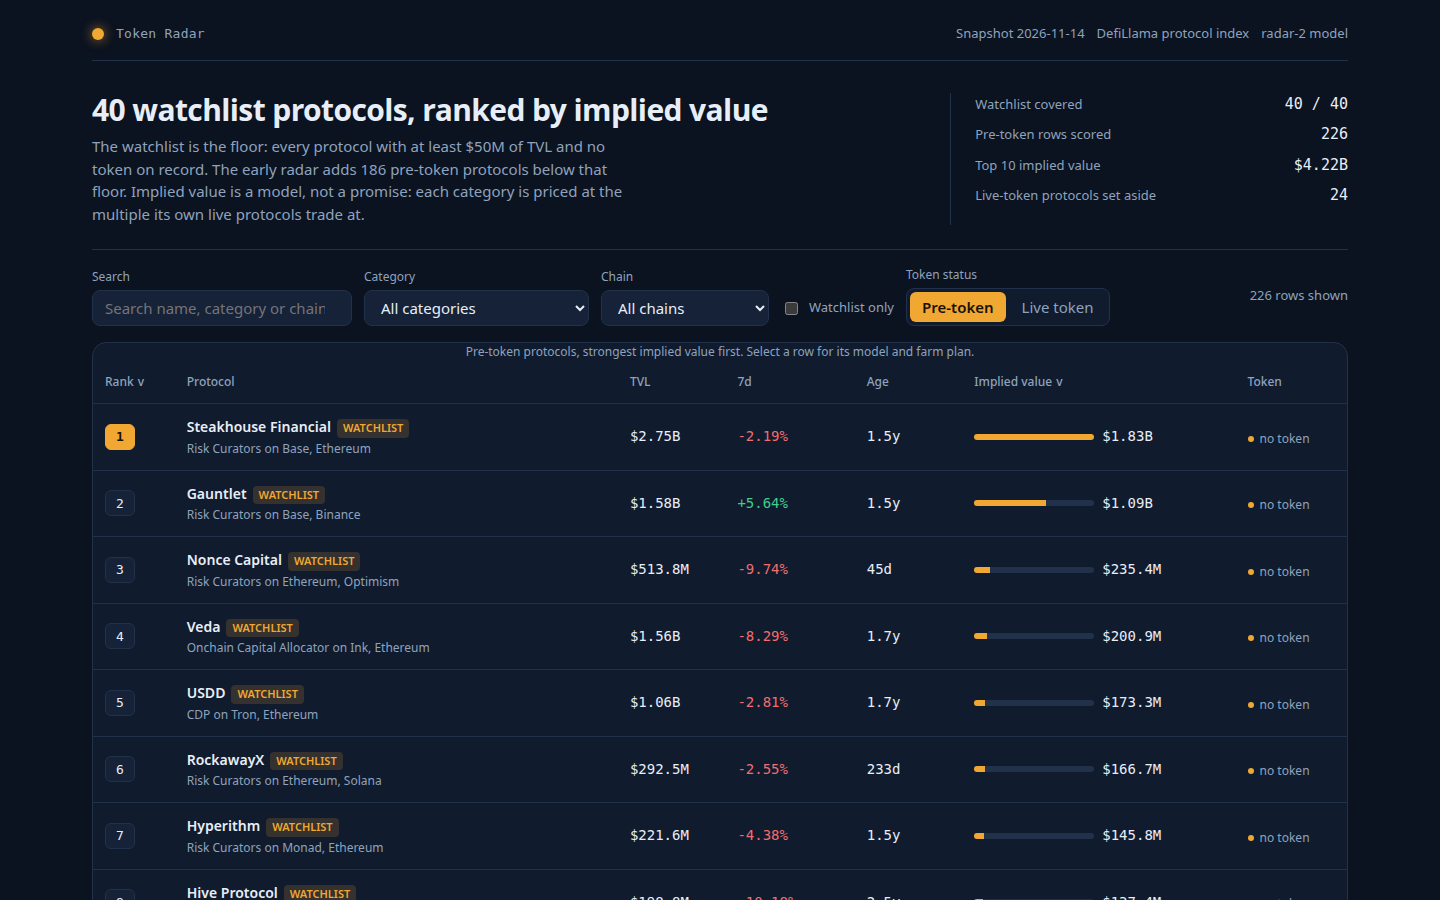
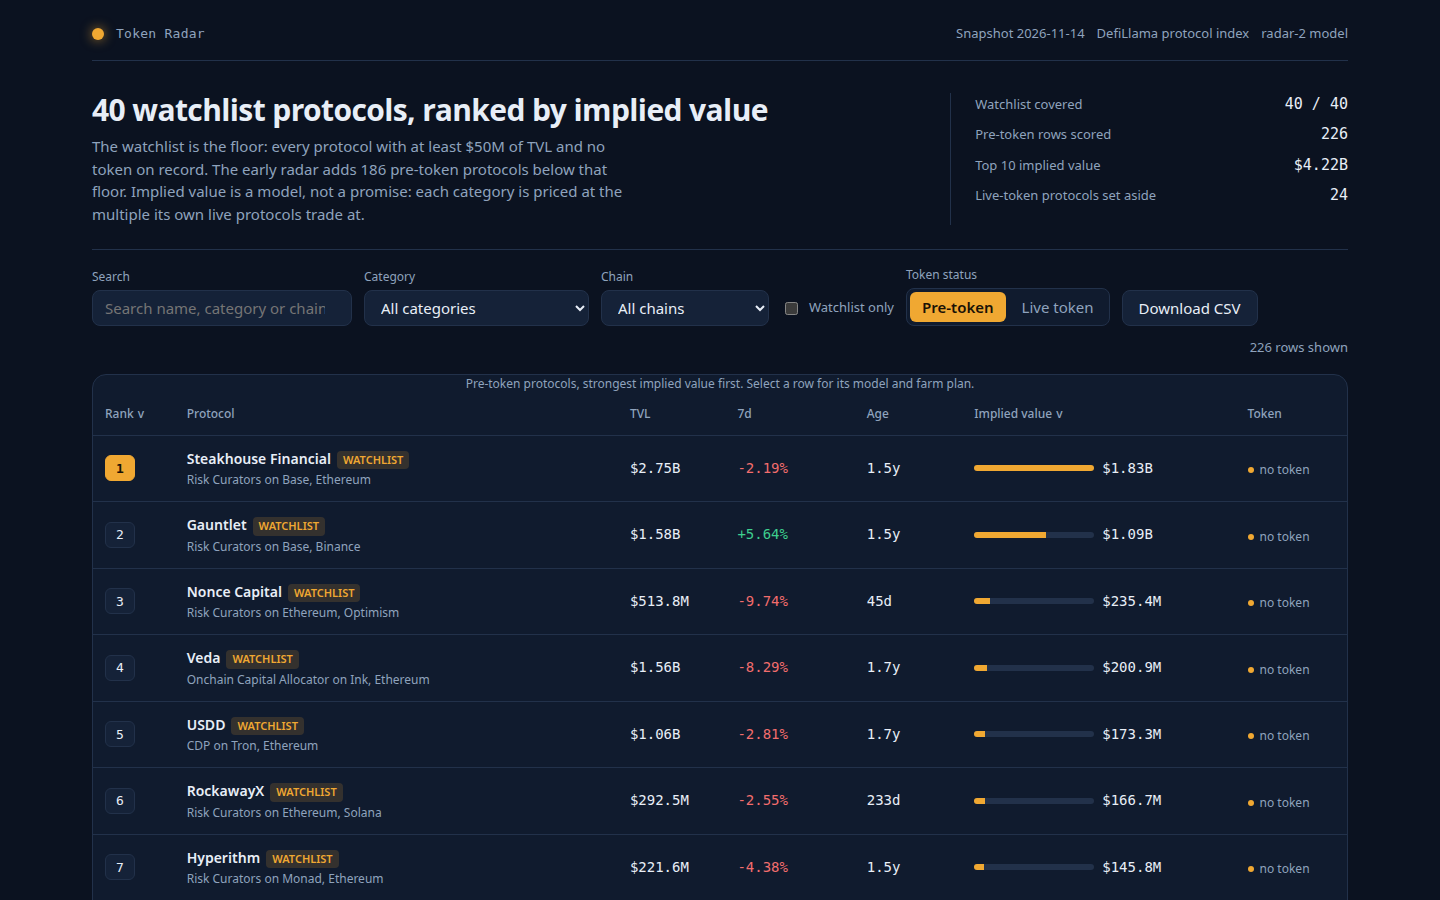
Add category leaderboard, growth leaders and CSV export
Category stats (per-category protocols, TVL, implied value, median
multiple, best row, share) and top-10 concentration share, computed in
lib/model.ts and rendered as a dashboard panel; fastest-growing
pre-token rows panel; Download CSV exports the rows on screen.

diff --git a/dashboard/app.js b/dashboard/app.js
@@ -180,6 +180,25 @@
     return total;
   }
 
+  function downloadCsv() {
+    var list = state.tab === 'pre-token' ? sortedRows(rows()) : DATA.live;
+    var head = 'rank,slug,name,category,chains,tvl_usd,change_7d,age_days,implied_value_usd\n';
+    var lines = list.map(function (r) {
+      var cells = state.tab === 'pre-token'
+        ? [r.rank, r.slug, r.name, r.category || '', (r.chains || []).join('|'), r.tvl_usd, r.change_7d === null ? '' : r.change_7d, r.age_days === null ? '' : r.age_days, r.implied_value_usd]
+        : ['live', r.slug, r.name, r.category || '', (r.chains || []).join('|'), r.tvl_usd, r.change_7d === null ? '' : r.change_7d, '', r.mcap_usd === null ? '' : r.mcap_usd];
+      return cells.map(function (v) { var s = String(v); return s.indexOf(',') >= 0 || s.indexOf('"') >= 0 ? '"' + s.replace(/"/g, '""') + '"' : s; }).join(',');
+    });
+    var blob = new Blob([head + lines.join('\n') + '\n'], { type: 'text/csv' });
+    var a = document.createElement('a');
+    a.href = URL.createObjectURL(blob);
+    a.download = 'token-radar-board.csv';
+    document.body.appendChild(a);
+    a.click();
+    URL.revokeObjectURL(a.href);
+    a.remove();
+  }
+
   function header() {
     return el('header', { class: 'top' },
       el('div', { class: 'brand' }, el('span', { class: 'mark' }), el('span', { class: 'brand-name', text: 'Token Radar' })),
@@ -231,6 +250,7 @@
       el('div', { class: 'field' }, el('label', { for: 'chain', text: 'Chain' }), chainSel),
       el('label', { class: 'check', for: 'wl' }, wl, 'Watchlist only'),
       el('div', { class: 'field' }, el('span', { class: 'sub', text: 'Token status' }), el('div', { class: 'tabs' }, pre, live)),
+      el('button', { class: 'button', type: 'button', text: 'Download CSV', onclick: function () { downloadCsv(); } }),
       el('span', { class: 'count', text: state.tab === 'pre-token' ? rows().length + ' rows shown' + (state.sandbox.active ? ' (what-if model)' : '') : DATA.live.length + ' live-token protocols' })
     );
   }
@@ -372,6 +392,82 @@
     );
   }
 
+  function categoryPanel() {
+    var cats = DATA.categories || [];
+    if (cats.length === 0) return el('section', { class: 'panel cat-panel' }, el('p', { class: 'sub', text: 'No category breakdown in this snapshot.' }));
+    var body = el('tbody');
+    cats.forEach(function (c, i) {
+      body.appendChild(el('tr', null,
+        el('td', { class: 'num', text: String(i + 1) }),
+        el('td', null, el('b', { text: c.category })),
+        el('td', { class: 'num', text: String(c.protocols) }),
+        el('td', { class: 'num', text: fmtUsd(c.total_tvl_usd) }),
+        el('td', { class: 'num', text: fmtUsd(c.total_implied_usd) }),
+        el('td', { class: 'num', text: String(c.median_multiple) }),
+        el('td', null, el('div', { class: 'name' }, el('b', { text: c.top_name }), el('span', { class: 'sub', text: fmtUsd(c.top_implied_usd) }))),
+        el('td', null, el('div', { class: 'implied' },
+          el('div', { class: 'bar', 'aria-hidden': 'true' }, el('i', { style: 'width:' + Math.max(2, Math.round(c.share_of_implied)) + '%' })),
+          el('span', { class: 'num', text: c.share_of_implied.toFixed(1) + '%' })
+        ))
+      ));
+    });
+    return el('section', { class: 'panel cat-panel' },
+      el('h2', { text: 'Where the value sits' }),
+      el('p', { class: 'sub', text: "The ranked board grouped by category. A category earns its place from the protocols in it, not from a headline: the top ten rows hold " + DATA.top10_share + "% of the board's implied value." }),
+      el('div', { class: 'table-wrap' },
+        el('table', { class: 'cat-table' },
+          el('caption', { class: 'sub', text: 'Categories by total implied value, strongest first.' }),
+          el('thead', null, el('tr', null,
+            el('th', { scope: 'col', text: '#' }),
+            el('th', { scope: 'col', text: 'Category' }),
+            el('th', { scope: 'col', text: 'Protocols' }),
+            el('th', { scope: 'col', text: 'Total TVL' }),
+            el('th', { scope: 'col', text: 'Total implied' }),
+            el('th', { scope: 'col', text: 'Median multiple' }),
+            el('th', { scope: 'col', text: 'Top protocol' }),
+            el('th', { scope: 'col', text: 'Share' })
+          )),
+          body
+        )
+      )
+    );
+  }
+
+  function growthPanel() {
+    var leaders = DATA.growth_leaders || [];
+    if (leaders.length === 0) return el('section', { class: 'panel cat-panel' }, el('p', { class: 'sub', text: 'No growing pre-token row in this snapshot.' }));
+    var body = el('tbody');
+    leaders.forEach(function (r, i) {
+      body.appendChild(el('tr', { onclick: function () { openDetail(r.slug); } },
+        el('td', { class: 'num', text: String(i + 1) }),
+        el('td', null, el('div', { class: 'name' },
+          el('b', null, r.name, WATCHLIST[r.slug] ? el('span', { class: 'badge-watch', text: 'WATCHLIST' }) : null),
+          el('span', { class: 'sub', text: (r.category || 'Other') + ' on ' + (r.chains && r.chains.length ? r.chains.slice(0, 2).join(', ') : 'an unnamed chain') })
+        )),
+        el('td', { class: 'num pos', text: fmtPct(r.change_7d) }),
+        el('td', { class: 'num', text: fmtUsd(r.tvl_usd) }),
+        el('td', { class: 'num', text: fmtUsd(r.implied_value_usd) })
+      ));
+    });
+    return el('section', { class: 'panel cat-panel' },
+      el('h2', { text: 'Growing fastest' }),
+      el('p', { class: 'sub', text: "Seven-day TVL growth among the ranked rows. A rising line this early is the radar's first hint, not a promise: check the row before you farm it." }),
+      el('div', { class: 'table-wrap' },
+        el('table', { class: 'cat-table' },
+          el('caption', { class: 'sub', text: 'Pre-token rows by seven-day growth, fastest first.' }),
+          el('thead', null, el('tr', null,
+            el('th', { scope: 'col', text: '#' }),
+            el('th', { scope: 'col', text: 'Protocol' }),
+            el('th', { scope: 'col', text: '7d' }),
+            el('th', { scope: 'col', text: 'TVL' }),
+            el('th', { scope: 'col', text: 'Implied value' })
+          )),
+          body
+        )
+      )
+    );
+  }
+
   var dialog = el('dialog', { class: 'detail', id: 'detail', 'aria-labelledby': 'detail-title' });
   dialog.addEventListener('close', function () { state.selected = null; writeHash(); });
 
@@ -430,6 +526,8 @@
     shell.appendChild(controls());
     shell.appendChild(state.tab === 'pre-token' ? boardTable() : liveTable());
     if (state.tab === 'pre-token') shell.appendChild(modelPanel());
+    if (state.tab === 'pre-token') shell.appendChild(categoryPanel());
+    if (state.tab === 'pre-token') shell.appendChild(growthPanel());
     app.appendChild(shell);
     app.setAttribute('aria-busy', 'false');
     if (!dialog.isConnected) app.appendChild(dialog);

diff --git a/lib/model.ts b/lib/model.ts
@@ -154,6 +154,19 @@ export interface LiveRow {
   change_7d: number | null;
 }
 
+/** One category's weight on the board: how many protocols, how much value, and its best row. */
+export interface CategoryStats {
+  category: string;
+  protocols: number;
+  total_tvl_usd: number;
+  total_implied_usd: number;
+  median_multiple: number;
+  top_slug: string;
+  top_name: string;
+  top_implied_usd: number;
+  share_of_implied: number;
+}
+
 /** Everything the dashboard needs: the board, the live set, and the model it runs. */
 export interface RadarData {
   as_of: string;
@@ -167,6 +180,9 @@ export interface RadarData {
   live_size: number;
   global_multiple: number;
   multiples: CategoryMultiple[];
+  categories: CategoryStats[];
+  top10_share: number;
+  growth_leaders: RadarRow[];
   rows: RadarRow[];
   live: LiveRow[];
 }
@@ -444,6 +460,57 @@ export function liveRows(snapshot: Snapshot): LiveRow[] {
     }));
 }
 
+/** The board grouped by category: each category's protocols, value, median multiple and best row. */
+export function categoryStats(board: BoardRow[]): CategoryStats[] {
+  const byCategory = new Map<string, BoardRow[]>();
+  for (const row of board) {
+    const key = row.category ?? 'Other';
+    const list = byCategory.get(key) ?? [];
+    list.push(row);
+    byCategory.set(key, list);
+  }
+  const grand = board.reduce((sum, row) => sum + row.implied_value_usd, 0) || 1;
+  const stats = [...byCategory.entries()].map(([category, rows]) => {
+    const totalTvl = rows.reduce((sum, row) => sum + row.tvl_usd, 0);
+    const totalImplied = rows.reduce((sum, row) => sum + row.implied_value_usd, 0);
+    const multiples = rows.map((row) => row.model.category_multiple).sort((a, b) => a - b);
+    const top = rows.reduce((best, row) => (row.implied_value_usd > best.implied_value_usd ? row : best), rows[0]!);
+    const stat: CategoryStats = {
+      category,
+      protocols: rows.length,
+      total_tvl_usd: totalTvl,
+      total_implied_usd: totalImplied,
+      median_multiple: round4(median(multiples)),
+      top_slug: top.slug,
+      top_name: top.name,
+      top_implied_usd: top.implied_value_usd,
+      share_of_implied: Math.round((totalImplied / grand) * 1000) / 10,
+    };
+    return stat;
+  });
+  stats.sort((a, b) => b.total_implied_usd - a.total_implied_usd || a.category.localeCompare(b.category));
+  return stats;
+}
+
+/** The share of the board's implied value held by its top `n` rows, as a percentage. */
+export function topShare(board: BoardRow[], n: number): number {
+  const grand = board.reduce((sum, row) => sum + row.implied_value_usd, 0);
+  if (grand <= 0) return 0;
+  const top = board.slice(0, Math.max(0, n)).reduce((sum, row) => sum + row.implied_value_usd, 0);
+  return Math.round((top / grand) * 1000) / 10;
+}
+
+/**
+ * The fastest-growing pre-token rows by seven-day TVL change, strongest growth first.
+ * Growth alone never ranks a row: these are the board's rows, already scored, shown so the
+ * earliest risers are visible before their implied value catches up.
+ */
+export function growthLeaders(board: BoardRow[], n: number): BoardRow[] {
+  const grown = board.filter((row) => row.change_7d !== null && row.change_7d > 0);
+  grown.sort((a, b) => (b.change_7d ?? 0) - (a.change_7d ?? 0) || b.implied_value_usd - a.implied_value_usd);
+  return grown.slice(0, Math.max(0, n));
+}
+
 /** A board row's compact form for data.js, with the farm plan generated in the page. */
 export function radarRow(row: BoardRow): RadarRow {
   return {
@@ -470,6 +537,7 @@ export function buildRadar(snapshot: Snapshot, model: ModelConstants = MODEL): {
   const board = buildBoard(snapshot, model);
   const live = liveRows(snapshot);
   const multiples = categoryMultiples(snapshot, model);
+  const categories = categoryStats(board);
   const early = board.filter((r) => !snapshot.watchlist.includes(r.slug)).length;
   const radar: RadarData = {
     as_of: snapshot.as_of,
@@ -483,6 +551,9 @@ export function buildRadar(snapshot: Snapshot, model: ModelConstants = MODEL): {
     live_size: live.length,
     global_multiple: multiples.global,
     multiples: [...multiples.byCategory.values()].sort((a, b) => b.multiple - a.multiple || a.category.localeCompare(b.category)),
+    categories,
+    top10_share: topShare(board, 10),
+    growth_leaders: growthLeaders(board, 10).map(radarRow),
     rows: board.map(radarRow),
     live,
   };

diff --git a/dashboard/app.css b/dashboard/app.css
@@ -111,6 +111,9 @@ tr:first-child .rank-badge { background: var(--accent); border-color: var(--acce
 
 .model { margin-top: var(--step-4); padding: var(--step-5); display: grid; gap: var(--step-4); }
 .model h2 { margin-bottom: 0; }
+.cat-panel { margin-top: var(--step-4); padding: var(--step-5); display: grid; gap: var(--step-4); }
+.cat-panel h2 { margin-bottom: 0; }
+.cat-table { font-size: 13px; }
 .formula { font-family: var(--font-num); font-size: 13px; line-height: 1.7; color: var(--muted); overflow-wrap: anywhere; background: var(--surface-2); border: 1px solid var(--border); border-radius: var(--radius-control); padding: var(--step-3) var(--step-4); }
 .mult-table { width: 100%; font-size: 13px; }
 .mult-table th, .mult-table td { padding: var(--step-2) var(--step-3); }

diff --git a/README.md b/README.md
@@ -49,6 +49,21 @@ as farm targets.
 Top of the board on this snapshot: Steakhouse Financial, $2.75B TVL,
 implied value $1.83B.
 
+## What the dashboard shows
+
+- The ranked board: every pre-token protocol, strongest implied value first,
+  with TVL, seven-day growth, age with no token, and the implied value bar.
+- Protocol detail: click a row for the model's own inputs, the recomputed
+  check against board.json, and the seven-step farm plan.
+- Model sandbox: move the growth weight, maturity floor or multiple scale
+  and the board recomputes live.
+- Where the value sits: the board grouped by category, with each category's
+  total TVL, total implied value, median multiple, best row and share.
+- Growing fastest: the ten pre-token rows with the strongest seven-day TVL
+  growth, so the earliest risers are visible before their implied value
+  catches up.
+- Download CSV: the rows on screen, in the order shown, as a spreadsheet.
+
 ## Farm plans
 
 Every row carries a 7-step plan: a fresh wallet, a first deposit sized to
